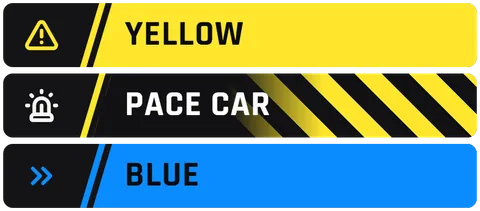
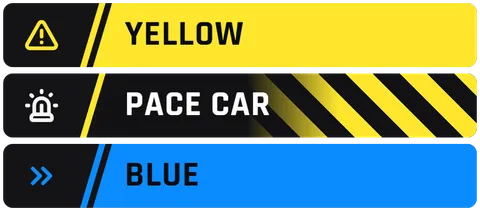
fix(flat-flags): yellow-and-red debris band, no stripes on the slanted edge
Debris is the yellow surface flag with red stripes, not orange. The
hazard bands draw their stripes only on the right part of the band:
drawn up to its slanted edge, they bled through the anti-aliased
pixels as a dotted yellow line beside the slash.

Changed region(s): [[0.4688, 0.3412, 1.0, 0.654]]

diff --git a/src/widgets/flat-flags/FlagItem/FlagItem.module.scss b/src/widgets/flat-flags/FlagItem/FlagItem.module.scss
@@ -2,6 +2,28 @@
 $slant: ws(12);
 $slash-width: ws(4);
 $slash-gap: ws(4);
+$hazard-stripe: ws(12);
+// The right part of a hazard band that carries the stripes; the label sits
+// on the plain base to its left.
+$hazard-stripes-span: 60%;
+
+// Stripes kept off the band's slanted edge: drawn there, they bleed through
+// its anti-aliased pixels as a dotted line.
+@mixin hazard-band($base, $stripe) {
+  background-color: $base;
+  background-image:
+    linear-gradient(to right, $base, transparent 40%),
+    repeating-linear-gradient(
+      45deg,
+      $stripe 0,
+      $stripe $hazard-stripe,
+      $base $hazard-stripe,
+      $base calc(#{$hazard-stripe} * 2)
+    );
+  background-size: $hazard-stripes-span 100%;
+  background-position: right;
+  background-repeat: no-repeat;
+}
 
 // --flag-tone paints the slash and the icon, --flag-ink the label.
 .item {
@@ -142,20 +164,11 @@ $slash-gap: ws(4);
 }
 
 .itemDebris {
-  --flag-tone: #{$flag-band-orange};
+  --flag-tone: #{$flag-band-yellow};
   --flag-icon: #{$flag-band-white};
 
   .band {
-    background:
-      linear-gradient(to right, $flag-band-orange 40%, transparent 65%),
-      repeating-linear-gradient(
-        45deg,
-        $flag-band-hazard-shade 0,
-        $flag-band-hazard-shade ws(12),
-        transparent ws(12),
-        transparent ws(24)
-      ),
-      $flag-band-orange;
+    @include hazard-band($flag-band-yellow, $flag-band-red);
   }
 }
 
@@ -165,14 +178,6 @@ $slash-gap: ws(4);
   --flag-ink: #{$widget-text-primary};
 
   .band {
-    background:
-      linear-gradient(to right, $flag-band-hazard 35%, transparent 60%),
-      repeating-linear-gradient(
-        45deg,
-        $flag-band-yellow 0,
-        $flag-band-yellow ws(12),
-        $flag-band-hazard ws(12),
-        $flag-band-hazard ws(24)
-      );
+    @include hazard-band($flag-band-hazard, $flag-band-yellow);
   }
 }

diff --git a/src/styles/_widget-tokens.scss b/src/styles/_widget-tokens.scss
@@ -137,7 +137,6 @@ $flag-band-checkered: #c4c4c4;
 $flag-band-black: #26272b;
 $flag-band-orange: #ff8a0f;
 $flag-band-hazard: #111113;
-$flag-band-hazard-shade: rgba(0, 0, 0, 0.6);
 $flag-row-surface: plate(#141416);
 
 // LED widget surfaces (off-state — not related to widget background)
